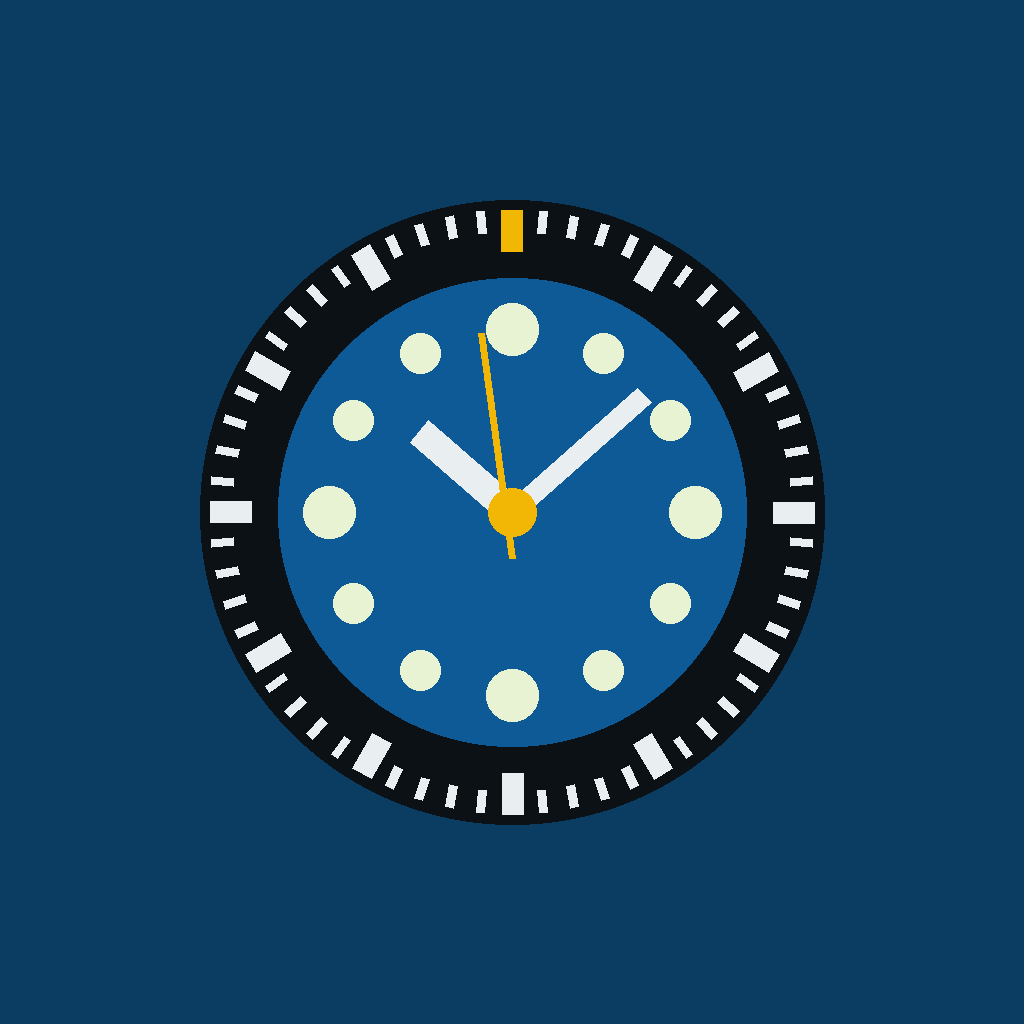
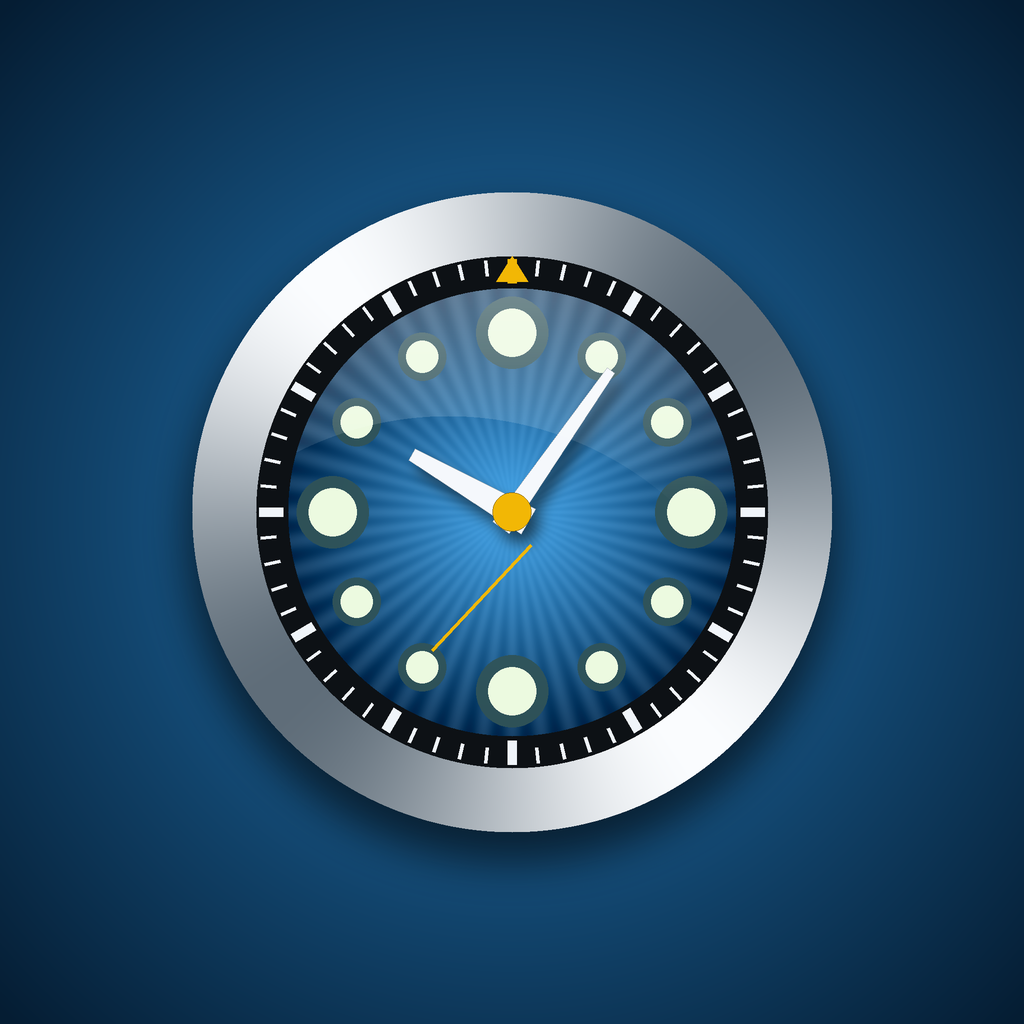
Shiny redesign, English titles, Osaka only

diff --git a/www/index.html b/www/index.html
@@ -1,43 +1,63 @@
 <!DOCTYPE html>
 <html lang="en"><head><meta charset="utf-8">
 <meta name="viewport" content="width=device-width,initial-scale=1,viewport-fit=cover">
+<meta name="theme-color" content="#0b3d63">
 <title>Seamaster Scout</title><link rel="icon" href="icon.png"><link rel="apple-touch-icon" href="icon.png">
 <style>
-:root{--bg:#e6e8eb;--ink:#17232b;--mute:#5d6b75;--card:#fff;--line:#cfd5da;--acc:#0b3d63;--new:#c8102e}
+:root{--bg1:#eef0f3;--bg2:#dde2e8;--ink:#14232d;--mute:#5a6b77;--card:#fff;--line:#d0d7de;--navy:#0b3d63;--navy2:#165b8f;--gold:#e8b100;--new:#d3122f}
 *{box-sizing:border-box}
-body{margin:0;background:var(--bg);color:var(--ink);font:16px/1.4 system-ui,-apple-system,sans-serif;padding:max(16px,env(safe-area-inset-top)) 16px 40px}
-main{max-width:980px;margin:0 auto}
-h1{font:600 24px Georgia,serif;margin:8px 0 2px}
-.sub{color:var(--mute);font-size:14px}
+body{margin:0;background:linear-gradient(180deg,var(--bg1),var(--bg2)) fixed;color:var(--ink);font:16px/1.4 system-ui,-apple-system,"Segoe UI",sans-serif;padding:max(0px,env(safe-area-inset-top)) 16px 56px}
+main{max-width:1000px;margin:0 auto}
+.hero{position:relative;margin:14px 0 18px;padding:20px;display:flex;gap:14px;align-items:center;color:#fff;background:linear-gradient(135deg,#072d4a,#0f5486 55%,#0a3b63);border-radius:20px;box-shadow:0 10px 26px rgba(7,45,74,.3);overflow:hidden}
+.hero::before{content:"";position:absolute;inset:0;background:linear-gradient(115deg,rgba(255,255,255,.26),rgba(255,255,255,0) 45%);pointer-events:none}
+.hero::after{content:"";position:absolute;left:0;right:0;bottom:0;height:3px;background:linear-gradient(90deg,transparent,var(--gold),transparent)}
+.logo{width:58px;height:58px;flex:none;filter:drop-shadow(0 3px 6px rgba(0,0,0,.45))}
+h1{font:700 26px/1.1 Georgia,"Times New Roman",serif;margin:0;letter-spacing:.3px;text-shadow:0 1px 3px rgba(0,0,0,.4)}
+.sub{color:var(--mute);font-size:14px}.hero .sub{color:#cfe3f3;margin-top:4px}
 button,select,input{font:inherit}
-.btn{background:var(--acc);color:#fff;border:0;border-radius:8px;padding:10px 18px;font-weight:600;cursor:pointer}
-.btn.ghost{background:transparent;color:var(--acc);border:1px solid var(--acc)}
-.btn:disabled{opacity:.5}
-:focus-visible{outline:2px solid var(--acc);outline-offset:2px}
-.menu{display:grid;gap:12px;margin-top:20px}
-.opt{background:var(--card);border:1px solid var(--line);border-radius:12px;padding:18px;text-align:left;cursor:pointer;width:100%}
-.opt:hover{border-color:var(--acc)}
-.opt b{display:block;font-size:18px}.opt span{color:var(--mute);font-size:14px}
-.bar{display:flex;flex-wrap:wrap;gap:10px;align-items:center;justify-content:space-between;margin:14px 0}
-.filters{display:flex;flex-wrap:wrap;gap:12px;align-items:center;background:var(--card);border:1px solid var(--line);border-radius:10px;padding:10px 12px;font-size:14px}
-.filters input[type=number],select{border:1px solid var(--line);border-radius:6px;padding:6px;background:#fff;width:auto}
-#st{color:var(--mute);font-size:14px;margin:12px 0}
-#grid{display:grid;grid-template-columns:repeat(auto-fill,minmax(220px,1fr));gap:14px}
-.c{background:var(--card);border:1px solid var(--line);border-radius:10px;overflow:hidden;position:relative;display:flex;flex-direction:column}
+.btn{border:0;border-radius:10px;padding:11px 20px;font-weight:700;color:#fff;cursor:pointer;background:linear-gradient(180deg,#2273ad,var(--navy) 55%,#082f4d);box-shadow:inset 0 1px 0 rgba(255,255,255,.45),0 3px 8px rgba(11,61,99,.35);transition:transform .15s,box-shadow .15s}
+.btn:hover{transform:translateY(-1px)}.btn:active{transform:translateY(1px)}
+.btn.ghost{color:var(--navy);background:linear-gradient(180deg,#fff,#e9edf1);border:1px solid #b9c4cd;box-shadow:inset 0 1px 0 #fff,0 2px 5px rgba(0,0,0,.08)}
+.btn:disabled{opacity:.55;cursor:wait}
+:focus-visible{outline:2px solid var(--gold);outline-offset:2px}
+.menu{display:grid;gap:14px}
+.opt{display:flex;gap:16px;align-items:center;text-align:left;width:100%;padding:18px;border-radius:16px;border:1px solid var(--line);background:linear-gradient(180deg,#fff,#f3f5f7);box-shadow:0 2px 8px rgba(20,35,45,.08),inset 0 1px 0 #fff;cursor:pointer;position:relative;overflow:hidden;transition:transform .2s,box-shadow .2s,border-color .2s;color:inherit}
+.opt::after{content:"";position:absolute;top:0;left:-60%;width:40%;height:100%;background:linear-gradient(100deg,transparent,rgba(255,255,255,.8),transparent);transform:skewX(-20deg);transition:left .6s;pointer-events:none}
+.opt:hover{transform:translateY(-2px);border-color:var(--navy2);box-shadow:0 10px 22px rgba(11,61,99,.18)}.opt:hover::after{left:120%}
+.opt b{display:block;font-size:18px}.opt .d{color:var(--mute);font-size:14px}
+.ic{flex:none;width:54px;height:54px;border-radius:15px;display:grid;place-items:center;color:#fff;background:linear-gradient(145deg,#3a96d4,#0b3d63);box-shadow:inset 0 1px 0 rgba(255,255,255,.55),0 4px 10px rgba(11,61,99,.3)}
+.ic svg{width:28px;height:28px}
+.bar{display:flex;flex-wrap:wrap;gap:12px;align-items:center;justify-content:space-between;margin:6px 0 14px}
+.bar b{font:700 21px Georgia,serif}
+.filters{display:flex;flex-wrap:wrap;gap:12px 18px;align-items:center;background:rgba(255,255,255,.85);backdrop-filter:blur(6px);border:1px solid var(--line);border-radius:14px;padding:12px 14px;font-size:14px;box-shadow:0 2px 8px rgba(20,35,45,.06)}
+.filters input[type=number],select{border:1px solid #b9c4cd;border-radius:8px;padding:7px 8px;background:#fff;color:var(--ink)}
+.filters input[type=checkbox]{accent-color:var(--navy);width:16px;height:16px}
+#st{color:var(--mute);font-size:14px;margin:14px 2px}
+#grid{display:grid;grid-template-columns:repeat(auto-fill,minmax(160px,1fr));gap:16px}
+.c{position:relative;background:var(--card);border:1px solid var(--line);border-radius:16px;overflow:hidden;display:flex;flex-direction:column;box-shadow:0 2px 8px rgba(20,35,45,.08);transition:transform .2s,box-shadow .2s}
+.c:hover{transform:translateY(-3px);box-shadow:0 12px 26px rgba(11,61,99,.2)}
+.c::after{content:"";position:absolute;top:0;left:-70%;width:45%;height:100%;background:linear-gradient(100deg,transparent,rgba(255,255,255,.55),transparent);transform:skewX(-20deg);pointer-events:none;transition:left .7s}
+.c:hover::after{left:130%}
 .c a.m{color:inherit;text-decoration:none;display:block}
-.c img{width:100%;aspect-ratio:1;object-fit:cover;background:#dfe3e6;display:block}
-.c .i{padding:10px 12px}.t{font-size:13px;max-height:3.9em;overflow:hidden}
-.p{margin-top:6px;font-weight:700;font-size:17px;color:var(--acc)}
-.tag{font-size:12px;color:var(--mute)}
-.c .x{padding:0 12px 10px;font-size:12px}.x a{color:var(--acc)}
-.nw{position:absolute;top:8px;left:8px;background:var(--new);color:#fff;font-size:11px;font-weight:700;padding:2px 8px;border-radius:99px}
-.sk{height:250px;background:linear-gradient(90deg,#dde1e4,#eef0f2,#dde1e4);background-size:200% 100%;animation:s 1.2s infinite;border-radius:10px}
+.c img{width:100%;aspect-ratio:1;object-fit:cover;background:radial-gradient(circle at 35% 30%,#f3f5f7,#cdd4da);display:block;transition:transform .4s}
+.c:hover img{transform:scale(1.04)}
+.c .i{padding:12px 14px 6px}
+.t{font-weight:600;font-size:14px;line-height:1.3;max-height:4em;overflow:hidden}
+.o{color:var(--mute);font-size:11px;margin-top:3px;max-height:2.6em;overflow:hidden}
+.p{display:inline-block;margin-top:9px;padding:3px 12px;border-radius:99px;font:800 16px system-ui;color:#fff;background:linear-gradient(180deg,#2273ad,#0b3d63);box-shadow:inset 0 1px 0 rgba(255,255,255,.4)}
+.tag{font-size:12px;color:var(--mute);margin-top:6px}
+.c .x{padding:0 14px 12px;font-size:12px}.x a{color:var(--navy2);font-weight:600}
+.nw{position:absolute;z-index:2;top:10px;left:10px;color:#fff;font-size:11px;font-weight:800;letter-spacing:.6px;padding:3px 10px;border-radius:99px;background:linear-gradient(180deg,#f0344f,var(--new));box-shadow:0 2px 8px rgba(211,18,47,.5),inset 0 1px 0 rgba(255,255,255,.5);animation:pl 2s infinite}
+@keyframes pl{50%{box-shadow:0 2px 14px rgba(211,18,47,.85),inset 0 1px 0 rgba(255,255,255,.5)}}
+.sk{aspect-ratio:3/4;border-radius:16px;background:linear-gradient(100deg,#dfe4e8 30%,#f4f6f8 50%,#dfe4e8 70%);background-size:200% 100%;animation:s 1.3s infinite}
 @keyframes s{to{background-position:-200% 0}}
-.links{margin-top:28px;font-size:14px;color:var(--mute)}.links a{color:var(--acc);margin-right:14px}
-.mu{position:fixed;right:16px;bottom:max(16px,env(safe-area-inset-bottom));background:var(--card)}
+.links{margin-top:30px;font-size:14px;color:var(--mute)}.links a{color:var(--navy2);font-weight:600;margin-right:14px}
+.mu{position:fixed;right:16px;bottom:max(16px,env(safe-area-inset-bottom));z-index:5;border-radius:99px;backdrop-filter:blur(8px)}
 [hidden]{display:none!important}
+@media (prefers-reduced-motion:reduce){*{animation:none!important;transition:none!important}}
 </style></head><body><main>
-<h1>Seamaster Scout</h1><div class="sub">Used Omega Seamaster Diver 300M listings across Japan</div>
+<header class="hero"><svg class="logo" viewBox="0 0 64 64" aria-hidden="true"><defs><linearGradient id="g1" x1="0" y1="0" x2="1" y2="1"><stop offset="0" stop-color="#f6f9fc"/><stop offset=".5" stop-color="#7f8d99"/><stop offset="1" stop-color="#eef2f6"/></linearGradient><radialGradient id="g2"><stop offset="0" stop-color="#47a3e6"/><stop offset="1" stop-color="#0b3d63"/></radialGradient></defs><circle cx="32" cy="32" r="30" fill="url(#g1)"/><circle cx="32" cy="32" r="25" fill="#0c1115"/><circle cx="32" cy="32" r="21" fill="url(#g2)"/><path d="M32 32L22 25M32 32L44 22" stroke="#fff" stroke-width="3" stroke-linecap="round"/><circle cx="32" cy="12.5" r="2.2" fill="#f2b705"/><circle cx="32" cy="32" r="2.4" fill="#f2b705"/><path d="M15 21a21 21 0 0 1 24-9" stroke="#fff" stroke-opacity=".55" stroke-width="3" fill="none" stroke-linecap="round"/></svg>
+<div><h1>Seamaster Scout</h1><div class="sub">Used Omega Seamaster Diver 300M finder</div></div></header>
 <div id="menu" class="menu" hidden></div>
 <section id="app" hidden>
   <div class="bar"><div><b id="mn"></b><div class="sub" id="when"></div></div>
@@ -48,22 +68,22 @@ button,select,input{font:inherit}
     <label><input type="checkbox" id="junk" checked> Hide boxes, straps, parts, new</label>
     <label><input type="checkbox" id="onlynew"> Only new since last check</label></div>
   <div id="st"></div><div id="grid"></div>
-  <div class="links">More: <a id="l1" target="_blank" rel="noopener">Mercari</a><a id="l2" target="_blank" rel="noopener">Chrono24</a><a id="l3" target="_blank" rel="noopener">Komehyo</a><a id="l4" target="_blank" rel="noopener">2nd Street</a><a href="spy-theme.mid" download>Music (.mid)</a></div>
+  <div class="links">More searches: <a id="l1" target="_blank" rel="noopener">Mercari</a><a id="l2" target="_blank" rel="noopener">Chrono24</a><a id="l3" target="_blank" rel="noopener">Komehyo</a><a id="l4" target="_blank" rel="noopener">2nd Street</a><a href="spy-theme.mid" download>Music (.mid)</a></div>
 </section>
 <button id="mu" class="btn ghost mu" aria-pressed="false">♪ Music: off</button>
 <script>
 const Q="オメガ シーマスター ダイバー300M",$=id=>document.getElementById(id);
-const PREF={27:"Osaka",26:"Kyoto",28:"Hyogo",29:"Nara",30:"Wakayama",23:"Aichi"};
 const ya=l=>"https://auctions.yahoo.co.jp/search/search?p="+encodeURIComponent(Q)+(l?"&loc_cd="+l:"")+"&auccat=23140&s1=new&o1=d&n=50";
 const yp=l=>"https://auctions.yahoo.co.jp/search/search/"+encodeURIComponent(Q)+"/0/?auccat=23140&s1=new&o1=d&n=50"+(l?"&loc_cd="+l:"");
 const MODES={
- area:{name:"Osaka area",sub:"Osaka, Kyoto, Hyogo, Nara, Wakayama and Aichi (Nagoya)",jobs:()=>Object.keys(PREF).map(c=>({url:ya(c),alt:yp(c),tag:PREF[c]}))},
+ area:{name:"Osaka",sub:"Listings located in Osaka, same as the original search",jobs:()=>[{url:ya(27),alt:yp(27),tag:"Osaka"}]},
  japan:{name:"All of Japan, including online",sub:"Every prefecture plus online sellers",jobs:()=>[{url:ya(),alt:yp(),tag:"Japan"}]},
  takayama:{name:"Takayama pawn shop",sub:"Fukuoka area, one shop only (takayama78online.jp)",jobs:()=>[{url:"https://takayama78online.jp/shop/c/c105020/",tag:"Takayama",enc:"shift_jis"}]}};
 const L={get(k,d){try{return JSON.parse(localStorage.getItem(k))??d}catch(e){return d}},set(k,v){try{localStorage.setItem(k,JSON.stringify(v))}catch(e){}}};
 const S={mode:null,items:[],when:0};
 const JUNK=/空箱|箱のみ|ベルトのみ|ジャンク|部品取り|パーツ|ダミー|説明書のみ|新品(?!同様)|未使用|のみ$|互換|汎用|対応|シーマスター\s*コマ|コマ\s*\d+\s*コマ|文字板/;
-$("menu").innerHTML=Object.entries(MODES).map(([k,m])=>`<button class="opt" data-k="${k}"><b>${m.name}</b><span>${m.sub}</span></button>`).join("");
+const ICON={area:'<svg viewBox="0 0 24 24" fill="none" stroke="currentColor" stroke-width="2" stroke-linecap="round"><path d="M12 21s-7-6.2-7-11a7 7 0 0 1 14 0c0 4.8-7 11-7 11z"/><circle cx="12" cy="10" r="2.5"/></svg>',japan:'<svg viewBox="0 0 24 24" fill="none" stroke="currentColor" stroke-width="2" stroke-linecap="round"><circle cx="12" cy="12" r="9"/><path d="M3 12h18M12 3c3 3 3 15 0 18M12 3c-3 3-3 15 0 18"/></svg>',takayama:'<svg viewBox="0 0 24 24" fill="none" stroke="currentColor" stroke-width="2" stroke-linejoin="round"><path d="M4 9l1.5-5h13L20 9M4 9v11h16V9M4 9c0 2 3 2 4 0 1 2 3 2 4 0 1 2 3 2 4 0 1 2 4 2 4 0"/><path d="M10 20v-5h4v5"/></svg>'};
+$("menu").innerHTML=Object.entries(MODES).map(([k,m])=>`<button class="opt" data-k="${k}"><span class="ic">${ICON[k]}</span><span><b>${m.name}</b><span class="d">${m.sub}</span></span></button>`).join("");
 $("menu").onclick=e=>{const b=e.target.closest(".opt");if(b)open(b.dataset.k)};
 $("back").onclick=()=>{L.set("mode",null);$("app").hidden=true;$("menu").hidden=false};
 $("max").value=L.get("max",800000);
@@ -154,18 +174,22 @@ async function update(){
   L.set("seen_"+S.mode,[...new Set([...prev,...S.items.map(i=>i.h)])].slice(-600));
   render(bad.length?bad.length+" source(s) failed. ":"");$("u").disabled=false;
 }
+const N=t=>t.normalize("NFKC");
+const GL=[["オメガ","Omega"],["シーマスター","Seamaster"],["ダイバー","Diver"],["プロフェッショナル","Professional"],["コーアクシャル","Co-Axial"],["マスタークロノメーター","Master Chronometer"],["クロノメーター","Chronometer"],["クロノグラフ","Chronograph"],["自動巻き","Automatic"],["自動巻","Automatic"],["クォーツ","Quartz"],["クオーツ","Quartz"],["腕時計","Watch"],["メンズ","Men's"],["ボーイズ","Boys'"],["レディース","Ladies'"],["ブルー","Blue"],["ブラック","Black"],["グリーン","Green"],["ホワイト","White"],["青文字盤","Blue dial"],["黒文字盤","Black dial"],["文字盤","dial"],["ステンレス","Stainless steel"],["チタン","Titanium"],["エディション","Edition"],["保証書","Warranty card"],["保証","Warranty"],["付属品","Accessories"],["余りコマ","Spare links"],["箱","Box"],["カード","Card"],["付き","Included"],["極美品","Mint"],["美品","Excellent"],["中古","Used"],["稼働品","Working"],["稼働","Working"],["完品","Complete set"],["送料無料","Free shipping"],["本体","Watch only"],["ブレスレット","Bracelet"],["ブレス","Bracelet"],["ベルト","Strap"],["ラバー","Rubber"],["デイト","Date"],["日付","Date"],["ダイビング","Diving"],["ヘリウム","Helium"],["オーバーホール済","Serviced"],["オーバーホール","Overhaul"],["動作確認済","Tested"],["ケース","Case"],["限定","Limited"],["ランク","Grade"],["品","item"]].sort((a,b)=>b[0].length-a[0].length);
+const GM=Object.fromEntries(GL),GR=new RegExp(GL.map(x=>x[0]).join("|"),"g");
+const en=t=>N(t).replace(GR,m=>" "+GM[m]+" ").replace(/[【】『』「」★☆◆◇■□●○]/g," ").replace(/\s+/g," ").trim();
 function render(note=""){
   const max=+$("max").value||0,j=$("junk").checked,nw=$("onlynew").checked;
-  let v=S.items.filter(i=>/シーマスター|seamaster/i.test(i.t)&&/300|ダイバー|diver/i.test(i.t));
-  if(j)v=v.filter(i=>!JUNK.test(i.t));
+  let v=S.items.filter(i=>/シーマスター|seamaster/i.test(N(i.t))&&/300|ダイバー|diver/i.test(N(i.t)));
+  if(j)v=v.filter(i=>!JUNK.test(N(i.t)));
   if(max)v=v.filter(i=>!i.p||i.p<=max);if(nw)v=v.filter(i=>i.n);
   const s=$("sort").value;if(s!=="new")v.sort((a,b)=>(s==="lo"?1:-1)*((a.p||9e9)-(b.p||9e9))*(s==="lo"?1:1));
   $("when").textContent=S.when?"Updated "+new Date(S.when).toLocaleString():"Not updated yet";
   if(S.when||note)$("st").textContent=note+v.length+" of "+S.items.length+" listings shown";
   $("grid").innerHTML="";
   v.forEach(i=>{const c=document.createElement("div");c.className="c";
-    c.innerHTML='<a class="m" target="_blank" rel="noopener"><img loading="lazy" referrerpolicy="no-referrer" alt=""><div class="i"><div class="t"></div><div class="p"></div><div class="tag"></div></div></a><div class="x"><a target="_blank" rel="noopener">Translate to English</a></div>'+(i.n?'<span class="nw">NEW</span>':"");
-    const a=c.querySelector(".m");a.href=i.h;if(i.img)c.querySelector("img").src=i.img;c.querySelector(".t").textContent=i.t;
+    c.innerHTML='<a class="m" target="_blank" rel="noopener"><img loading="lazy" referrerpolicy="no-referrer" alt=""><div class="i"><div class="t"></div><div class="o"></div><div class="p"></div><div class="tag"></div></div></a><div class="x"><a target="_blank" rel="noopener">Full page translation</a></div>'+(i.n?'<span class="nw">NEW</span>':"");
+    const a=c.querySelector(".m");a.href=i.h;{const im=c.querySelector("img");im.onerror=()=>im.removeAttribute("src");if(i.img)im.src=i.img}{const e=en(i.t);c.querySelector(".t").textContent=e;if(e!==i.t)c.querySelector(".o").textContent=i.t}
     c.querySelector(".p").textContent=i.p?"¥"+i.p.toLocaleString():"Price on page";c.querySelector(".tag").textContent=i.tag;
     c.querySelector(".x a").href="https://translate.google.com/translate?sl=ja&tl=en&u="+encodeURIComponent(i.h);$("grid").appendChild(c)});
 }
